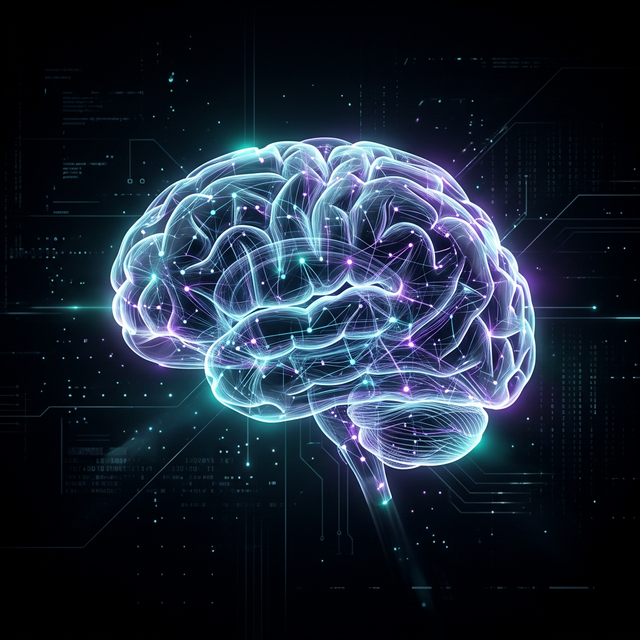
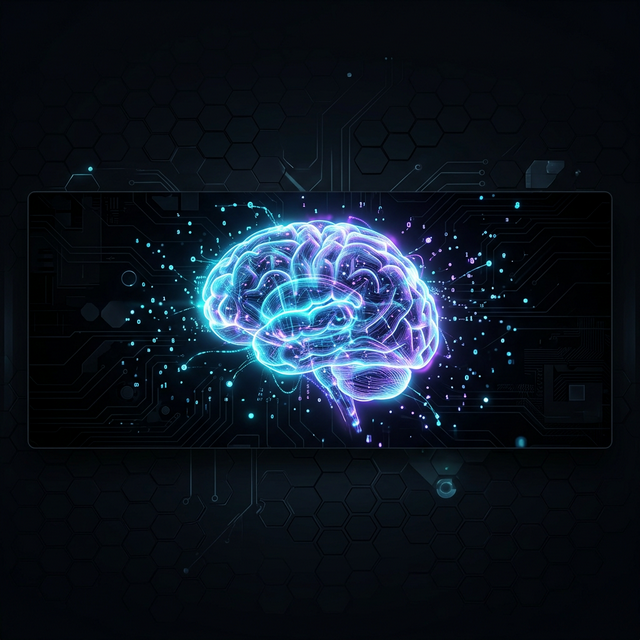
🎨 Dark vibrant theme + LinkedIn data + fix all broken images

diff --git a/README.md b/README.md
@@ -7,108 +7,103 @@
 <!--   ██║  ██║███████╗██║ ╚═╝ ██║██║  ██║██║ ╚████║╚██████╔╝                         -->
 <!--   ╚═╝  ╚═╝╚══════╝╚═╝     ╚═╝╚═╝  ╚═╝╚═╝  ╚═══╝ ╚═════╝                          -->
 <!--                                                                                   -->
-<!--   Welcome to my Digital Universe 🌌                                               -->
 <!-- ═══════════════════════════════════════════════════════════════════════════════════ -->
 
 <div align="center">
 
-<!-- CUSTOM HEADER BANNER -->
-<img src="./assets/header_banner.png" width="100%" alt="Header Banner"/>
+<!-- DARK VIBRANT HEADER -->
+<img src="./assets/header_banner.png" width="100%" alt="Hemang Dubey — AI/ML Engineer & Full Stack Developer"/>
 
 <br/>
 
-<!-- ANIMATED TYPING -->
-<a href="https://git.io/typing-svg"><img src="https://readme-typing-svg.demolab.com?font=JetBrains+Mono&weight=600&size=24&duration=3000&pause=1000&color=6C63FF&center=true&vCenter=true&multiline=true&repeat=true&random=false&width=700&height=80&lines=%E2%9A%A1+AI+Engineer+%7C+Full+Stack+Developer;%F0%9F%94%AC+Edge+AI+%7C+Generative+AI+%7C+Computer+Vision" alt="Typing SVG" /></a>
+<!-- ANIMATED TYPING — DARK NEON THEME -->
+<a href="https://git.io/typing-svg"><img src="https://readme-typing-svg.demolab.com?font=Fira+Code&weight=700&size=28&duration=3000&pause=800&color=00D4FF&center=true&vCenter=true&multiline=true&repeat=true&random=false&width=850&height=90&lines=%E2%9A%A1+AI%2FML+Engineer+%7C+Full+Stack+Developer;%F0%9F%94%AC+Edge+AI+%7C+Generative+AI+%7C+Computer+Vision+%7C+MLOps" alt="Typing SVG" /></a>
 
 <br/>
 
-<!-- SOCIAL BADGES -->
-<p align="center">
-<a href="https://www.linkedin.com/in/hemang-dubey-7b801628b/"><img src="https://img.shields.io/badge/LinkedIn-0A66C2?style=for-the-badge&logo=linkedin&logoColor=white" alt="LinkedIn"/></a>&nbsp;
-<a href="mailto:dubeyhemang777@gmail.com"><img src="https://img.shields.io/badge/Gmail-EA4335?style=for-the-badge&logo=gmail&logoColor=white" alt="Gmail"/></a>&nbsp;
-<a href="https://github.com/HemangDubey"><img src="https://img.shields.io/badge/GitHub-181717?style=for-the-badge&logo=github&logoColor=white" alt="GitHub"/></a>
+<!-- SOCIAL BADGES — NEON GLOW STYLE -->
+<p>
+<a href="https://www.linkedin.com/in/hemang-dubey-7b801628b/"><img src="https://img.shields.io/badge/-LinkedIn-0A66C2?style=for-the-badge&logo=linkedin&logoColor=white" alt="LinkedIn"/></a>
+<a href="mailto:dubeyhemang777@gmail.com"><img src="https://img.shields.io/badge/-Gmail-EA4335?style=for-the-badge&logo=gmail&logoColor=white" alt="Gmail"/></a>
+<a href="https://github.com/HemangDubey"><img src="https://img.shields.io/badge/-GitHub-181717?style=for-the-badge&logo=github&logoColor=white" alt="GitHub"/></a>
 </p>
 
-<!-- ANIMATED DIVIDER -->
 <img src="https://user-images.githubusercontent.com/73097560/115834477-dbab4500-a447-11eb-908a-139a6edaec5c.gif" width="100%">
 
 </div>
 
-<!-- ═══════════════════════════════════════════════════════════════ -->
-<!--                    ABOUT ME SECTION                           -->
-<!-- ═══════════════════════════════════════════════════════════════ -->
+---
 
 ## <img src="https://media.giphy.com/media/iY8CRBdQXODJSCERIr/giphy.gif" width="30"> &nbsp;About Me
 
-<img align="right" alt="Coding" width="320" src="https://raw.githubusercontent.com/abhisheknaiidu/abhisheknaiidu/master/code.gif"/>
+<img align="right" alt="Coding" width="300" src="https://raw.githubusercontent.com/abhisheknaiidu/abhisheknaiidu/master/code.gif"/>
 
 ```yaml
 name: Hemang Dubey
+role: AI/ML Engineer | Full Stack Developer
 located_in: India 🇮🇳
 education:
   university: VIT Vellore
   degree: Integrated M.Tech (CSE)
-  year: 3rd Year (2023 - 2028)
+  year: 3rd Year (2023 – 2028)
+  standing: Top 10% | Merit Scholar
 
 current_focus:
   - Edge AI & Computer Vision
   - Generative AI (Stable Diffusion, CLIP)
   - Full Stack Development (MERN)
   - MLOps & System Design
+  - Data Analytics & BI Dashboards
 
 patents_filed: 2
-research_areas:
-  - Contactless Healthcare Interfaces
-  - Genomic Data Compression
-  - AI-Powered Forensics
+hackathons:
+  - Appian AI Hackathon @ IIT Madras (Finalist)
+  - EnCode 2026 @ IIT Guwahati (Top 10)
 ```
 
 <br clear="both"/>
 
-<!-- ANIMATED DIVIDER -->
-<img src="https://user-images.githubusercontent.com/73097560/115834477-dbab4500-a447-11eb-908a-139a6edaec5c.gif" width="100%">
-
-<!-- ═══════════════════════════════════════════════════════════════ -->
-<!--                    TECH STACK SECTION                         -->
-<!-- ═══════════════════════════════════════════════════════════════ -->
+---
 
 ## <img src="https://media2.giphy.com/media/QssGEmpkyEOhBCb7e1/giphy.gif?cid=ecf05e47a0n3gi1bfqntqmob8g9aid1oyj2wr3ds3mg700bl&rid=giphy.gif" width="28"> &nbsp;Tech Arsenal
 
 <div align="center">
 
-### 🧠 AI / ML / Deep Learning
+#### 🧠 AI / ML / Deep Learning
 <p>
 <img src="https://img.shields.io/badge/PyTorch-EE4C2C?style=for-the-badge&logo=pytorch&logoColor=white"/>
 <img src="https://img.shields.io/badge/TensorFlow-FF6F00?style=for-the-badge&logo=tensorflow&logoColor=white"/>
+<img src="https://img.shields.io/badge/Keras-D00000?style=for-the-badge&logo=keras&logoColor=white"/>
 <img src="https://img.shields.io/badge/OpenCV-27338e?style=for-the-badge&logo=OpenCV&logoColor=white"/>
 <img src="https://img.shields.io/badge/MediaPipe-0097A7?style=for-the-badge&logo=google&logoColor=white"/>
-<img src="https://img.shields.io/badge/🤗%20HuggingFace-FFD21E?style=for-the-badge&logoColor=black"/>
+<img src="https://img.shields.io/badge/🤗%20HuggingFace-FFD21E?style=for-the-badge"/>
 <img src="https://img.shields.io/badge/Scikit--Learn-F7931E?style=for-the-badge&logo=scikit-learn&logoColor=white"/>
-<img src="https://img.shields.io/badge/Keras-D00000?style=for-the-badge&logo=keras&logoColor=white"/>
+<img src="https://img.shields.io/badge/NLP-8B5CF6?style=for-the-badge&logo=spacy&logoColor=white"/>
 </p>
 
-### 💻 Languages & Frameworks
+#### 💻 Languages
 <p>
 <img src="https://img.shields.io/badge/Python-3776AB?style=for-the-badge&logo=python&logoColor=white"/>
 <img src="https://img.shields.io/badge/JavaScript-F7DF1E?style=for-the-badge&logo=javascript&logoColor=black"/>
 <img src="https://img.shields.io/badge/Java-ED8B00?style=for-the-badge&logo=openjdk&logoColor=white"/>
+<img src="https://img.shields.io/badge/C++-00599C?style=for-the-badge&logo=cplusplus&logoColor=white"/>
 <img src="https://img.shields.io/badge/SQL-4479A1?style=for-the-badge&logo=postgresql&logoColor=white"/>
 <img src="https://img.shields.io/badge/HTML5-E34F26?style=for-the-badge&logo=html5&logoColor=white"/>
 <img src="https://img.shields.io/badge/CSS3-1572B6?style=for-the-badge&logo=css3&logoColor=white"/>
-<img src="https://img.shields.io/badge/Solidity-363636?style=for-the-badge&logo=solidity&logoColor=white"/>
 </p>
 
-### 🌐 Full Stack Development
+#### 🌐 Full Stack Development
 <p>
 <img src="https://img.shields.io/badge/React-20232A?style=for-the-badge&logo=react&logoColor=61DAFB"/>
 <img src="https://img.shields.io/badge/Node.js-339933?style=for-the-badge&logo=node.js&logoColor=white"/>
 <img src="https://img.shields.io/badge/Express.js-000000?style=for-the-badge&logo=express&logoColor=white"/>
 <img src="https://img.shields.io/badge/MongoDB-47A248?style=for-the-badge&logo=mongodb&logoColor=white"/>
+<img src="https://img.shields.io/badge/MySQL-4479A1?style=for-the-badge&logo=mysql&logoColor=white"/>
 <img src="https://img.shields.io/badge/REST%20APIs-FF6C37?style=for-the-badge&logo=postman&logoColor=white"/>
 <img src="https://img.shields.io/badge/Streamlit-FF4B4B?style=for-the-badge&logo=streamlit&logoColor=white"/>
 </p>
 
-### ⚙ DevOps & Tools
+#### ⚙ DevOps & Tools
 <p>
 <img src="https://img.shields.io/badge/Docker-2496ED?style=for-the-badge&logo=docker&logoColor=white"/>
 <img src="https://img.shields.io/badge/Git-F05032?style=for-the-badge&logo=git&logoColor=white"/>
@@ -119,127 +114,154 @@ research_areas:
 <img src="https://img.shields.io/badge/Linux-FCC624?style=for-the-badge&logo=linux&logoColor=black"/>
 </p>
 
-### 📊 Data & Analytics
+#### 📊 Data & Analytics
 <p>
 <img src="https://img.shields.io/badge/Pandas-150458?style=for-the-badge&logo=pandas&logoColor=white"/>
 <img src="https://img.shields.io/badge/NumPy-013243?style=for-the-badge&logo=numpy&logoColor=white"/>
 <img src="https://img.shields.io/badge/Power%20BI-F2C811?style=for-the-badge&logo=power-bi&logoColor=black"/>
-<img src="https://img.shields.io/badge/Matplotlib-11557C?style=for-the-badge&logo=plotly&logoColor=white"/>
+<img src="https://img.shields.io/badge/Matplotlib-11557C?style=for-the-badge"/>
 <img src="https://img.shields.io/badge/SQL%20Server-CC2927?style=for-the-badge&logo=microsoft-sql-server&logoColor=white"/>
 </p>
 
 </div>
 
-<!-- ANIMATED DIVIDER -->
-<img src="https://user-images.githubusercontent.com/73097560/115834477-dbab4500-a447-11eb-908a-139a6edaec5c.gif" width="100%">
+---
 
-<!-- ═══════════════════════════════════════════════════════════════ -->
-<!--                    EXPERIENCE & ACHIEVEMENTS                  -->
-<!-- ═══════════════════════════════════════════════════════════════ -->
+## <img src="https://media.giphy.com/media/fYSnHlufseco8Fh93Z/giphy.gif" width="28"> &nbsp;Professional Experience
 
-## <img src="https://media.giphy.com/media/fYSnHlufseco8Fh93Z/giphy.gif" width="28"> &nbsp;Experience & Achievements
+<table>
+<tr>
+<td width="100%">
+
+### 📊 Data Analytics Intern — **ApexPlanet Software Pvt Ltd**
+`Jan 2026 – Mar 2026` &nbsp; ![Remote](https://img.shields.io/badge/Remote-00D4FF?style=flat-square)
+
+- Performed **data cleaning, EDA, SQL querying**, and built interactive **BI dashboards**
+- Developed **GravityWrangler CLI** — an automated tool for data immersion & wrangling
+- Built **GravityBI** — a platform for data storytelling, statistical validation & visual analytics
+- Hands-on with **Python, Pandas, Power BI, SQL Server** for real-world data pipelines
+
+</td>
+</tr>
+<tr>
+<td>
+
+### 🏆 Web Development Intern — **Elevate Labs**
+`Jun 2025 – Jul 2025` &nbsp; ![Best Performer](https://img.shields.io/badge/🥇_Best_Performer_Award-FFD700?style=flat-square&labelColor=333)
+
+- Developed optimized, responsive UIs with **React.js** and handled back-end logic with **MySQL**
+- Streamlined database queries and backend workflows for production-grade data handling
+- Awarded **"Best Performer"** for outstanding contribution and delivery quality
+
+</td>
+</tr>
+<tr>
+<td>
+
+### 🌐 Full Stack Web Development Intern — **W3Origin, New Delhi**
+`May 2025 – Jun 2025` &nbsp; ![On-site](https://img.shields.io/badge/On--site-8B5CF6?style=flat-square)
+
+- Built responsive web applications using **Node.js, React, and MySQL** (MERN-style stack)
+- Integrated **REST APIs** and enhanced UI/UX components for improved system performance
+- Worked in an on-site collaborative engineering environment
+
+</td>
+</tr>
+</table>
+
+---
+
+## 🏅 Achievements & Recognition
 
 <div align="center">
 
-| 🏅 Highlights | 📋 Details |
-|:---|:---|
-| 🏢 **Full Stack Intern** | W3Origin, New Delhi — MERN Stack & REST APIs |
-|  **Best Performer Award** | Web Development Internship @ Elevate Labs |
-| 🤖 **Appian AI Hackathon** | Participant @ IIT Madras |
-| 💼 **Job Simulations** | JP Morgan Chase & Goldman Sachs |
-| 📜 **2 Patents** | GestureSense (Pending) + HelixVault Titan (Filed) |
+| 🎯 | Achievement | Details |
+|:---:|:---|:---|
+| 🏆 | **Best Performer Award** | Web Development Internship — Elevate Labs |
+| 🚀 | **EnCode 2026 — Top 10 Finalist** | National Hackathon @ IIT Guwahati |
+| 🤖 | **Appian AI Hackathon — Finalist** | AI/ML Innovation Challenge @ IIT Madras |
+| 📜 | **2 Patents Filed** | GestureSense (Pending) + HelixVault Titan (Filed) |
+| 💼 | **Software Engineering Simulations** | JP Morgan Chase & Goldman Sachs |
+| 🎓 | **Merit Scholar — Top 10%** | Integrated M.Tech CSE @ VIT Vellore |
+| 📚 | **Academic Excellence** | 12th: 92.4% · 10th: 94.2% — St. Mary's Convent School |
 
 </div>
 
-<!-- ANIMATED DIVIDER -->
-<img src="https://user-images.githubusercontent.com/73097560/115834477-dbab4500-a447-11eb-908a-139a6edaec5c.gif" width="100%">
-
-<!-- ═══════════════════════════════════════════════════════════════ -->
-<!--                 SKILL PROFICIENCY                             -->
-<!-- ═══════════════════════════════════════════════════════════════ -->
+---
 
 ## <img src="https://media.giphy.com/media/W5eoZHPpUx9sapR0eu/giphy.gif" width="28"> &nbsp;Skill Proficiency
 
 <div align="center">
 
 ```text
-🧠 AI/ML & Deep Learning    ███████████████████░░   90%
-🌐 Full Stack Development   ████████████████████░   95%
-🐍 Python                   ████████████████████░   95%
-⚡ JavaScript (ES6+)        █████████████████░░░░   85%
-☕ Java                     ████████████████░░░░░   80%
-🗃 SQL & Databases          █████████████████░░░░   85%
-🐳 DevOps & MLOps           ██████████████░░░░░░░   70%
-📊 Data Analytics            █████████████████░░░░   85%
-👁 Computer Vision          ████████████████████░   90%
-🎨 System Design            █████████████████░░░░   85%
+🧠 Machine Learning & DL     ████████████████████░   92%
+🌐 Full Stack Development    ████████████████████░   95%
+🐍 Python                    █████████████████████   98%
+📊 Data Analytics & BI       █████████████████░░░░   88%
+⚡ JavaScript (ES6+)         █████████████████░░░░   85%
+☕ Java / C++                ████████████████░░░░░   80%
+🗃 SQL & Databases           █████████████████░░░░   88%
+🐳 DevOps & MLOps            ██████████████░░░░░░░   72%
+👁 Computer Vision           ████████████████████░   92%
+🎨 System Design             █████████████████░░░░   85%
 ```
 
 </div>
 
-<!-- ANIMATED DIVIDER -->
-<img src="https://user-images.githubusercontent.com/73097560/115834477-dbab4500-a447-11eb-908a-139a6edaec5c.gif" width="100%">
+---
 
-<!-- ═══════════════════════════════════════════════════════════════ -->
-<!--                    CURRENTLY SECTION                          -->
-<!-- ═══════════════════════════════════════════════════════════════ -->
-
-## <img src="https://media.giphy.com/media/VgCDAzcKvsR6OM0uWg/giphy.gif" width="28"> &nbsp;What I'm Up To
+## <img src="https://media.giphy.com/media/VgCDAzcKvsR6OM0uWg/giphy.gif" width="28"> &nbsp;What I'm Building
 
 <div align="center">
 
 | 🔭 Currently Working On | 🌱 Currently Learning | 👯 Looking to Collaborate On |
 |:---|:---|:---|
-| NeuroSketch — AI Forensics Suite | Advanced GANs & Diffusion Models | Open Source AI/ML Projects |
-| Edge AI Healthcare Systems | Kubernetes & Cloud Native | Research in Computer Vision |
-| Genomic Compression Algorithms | Blockchain & Web3 (Solidity) | Innovative Hackathon Teams |
+| Generative AI Forensics Suite | Advanced GANs & Diffusion Models | Open Source AI/ML Projects |
+| Edge AI Healthcare Systems | Kubernetes & Cloud Deployment | Research in Computer Vision |
+| GravityBI Analytics Platform | Blockchain & Web3 (Solidity) | Innovative Hackathon Teams |
 
 </div>
 
-<!-- ANIMATED DIVIDER -->
-<img src="https://user-images.githubusercontent.com/73097560/115834477-dbab4500-a447-11eb-908a-139a6edaec5c.gif" width="100%">
+---
 
-<!-- ═══════════════════════════════════════════════════════════════ -->
-<!--                    GITHUB STATS                               -->
-<!-- ═══════════════════════════════════════════════════════════════ -->
-
-## <img src="https://media.giphy.com/media/cj87CxfRtrUifF3Riz/giphy.gif" width="28"> &nbsp;GitHub Analytics
+## 📈 GitHub Analytics
 
 <div align="center">
+
 <a href="https://github.com/HemangDubey">
-<img height="180em" src="https://github-readme-stats.vercel.app/api?username=HemangDubey&show_icons=true&theme=tokyonight&hide_border=true&bg_color=0d1117&title_color=6C63FF&icon_color=E94560&text_color=c9d1d9&count_private=true&include_all_commits=true" alt="Hemang's GitHub Stats"/>
-&nbsp;&nbsp;
-<img height="180em" src="https://github-readme-stats.vercel.app/api/top-langs/?username=HemangDubey&layout=compact&theme=tokyonight&hide_border=true&bg_color=0d1117&title_color=6C63FF&text_color=c9d1d9&langs_count=8" alt="Top Languages"/>
+<img height="180em" src="https://github-readme-stats-hemangdubeys-projects.vercel.app/api?username=HemangDubey&show_icons=true&hide_border=true&bg_color=0d1117&title_color=00D4FF&icon_color=8B5CF6&text_color=c9d1d9&ring_color=8B5CF6&count_private=true&include_all_commits=true" alt="Hemang's GitHub Stats"/>
+&nbsp;&nbsp;&nbsp;
+<img height="180em" src="https://github-readme-stats-hemangdubeys-projects.vercel.app/api/top-langs/?username=HemangDubey&layout=compact&hide_border=true&bg_color=0d1117&title_color=00D4FF&text_color=c9d1d9&langs_count=8" alt="Top Languages"/>
 </a>
 
 <br/><br/>
 
-<!-- STREAK STATS -->
 <a href="https://github.com/HemangDubey">
-<img src="https://github-readme-streak-stats.herokuapp.com/?user=HemangDubey&theme=tokyonight&hide_border=true&background=0d1117&stroke=6C63FF&ring=E94560&fire=E94560&currStreakLabel=6C63FF&sideLabels=c9d1d9&currStreakNum=c9d1d9&sideNums=c9d1d9&dates=8b949e" alt="GitHub Streak"/>
+<img src="https://streak-stats.demolab.com/?user=HemangDubey&hide_border=true&background=0d1117&stroke=1a1b27&ring=00D4FF&fire=8B5CF6&currStreakLabel=00D4FF&sideLabels=c9d1d9&currStreakNum=c9d1d9&sideNums=c9d1d9&dates=8b949e" alt="GitHub Streak"/>
+</a>
+
+<br/><br/>
+
+<a href="https://github.com/HemangDubey">
+<img src="https://github-readme-activity-graph.vercel.app/graph?username=HemangDubey&bg_color=0d1117&color=00D4FF&line=8B5CF6&point=FFFFFF&area_color=00D4FF&area=true&hide_border=true&custom_title=%E2%9A%A1%20Contribution%20Timeline" width="95%" alt="Contribution Graph"/>
 </a>
 
 </div>
 
-<!-- ANIMATED DIVIDER -->
-<img src="https://user-images.githubusercontent.com/73097560/115834477-dbab4500-a447-11eb-908a-139a6edaec5c.gif" width="100%">
-
-<!-- ═══════════════════════════════════════════════════════════════ -->
-<!--                    CONNECT WITH ME                            -->
-<!-- ═══════════════════════════════════════════════════════════════ -->
+---
 
 ## <img src="https://media.giphy.com/media/LnQjpWaON8nhr21vNW/giphy.gif" width="28"> &nbsp;Let's Connect
 
 <div align="center">
 
 <a href="https://www.linkedin.com/in/hemang-dubey-7b801628b/" target="_blank">
-<img src="https://img.shields.io/badge/Let's_Connect!-0A66C2?style=for-the-badge&logo=linkedin&logoColor=white" alt="LinkedIn" height="35"/>
+<img src="https://img.shields.io/badge/-Let's_Connect-0A66C2?style=for-the-badge&logo=linkedin&logoColor=white" height="35"/>
 </a>&nbsp;
 <a href="mailto:dubeyhemang777@gmail.com" target="_blank">
-<img src="https://img.shields.io/badge/Send_a_Mail-EA4335?style=for-the-badge&logo=gmail&logoColor=white" alt="Email" height="35"/>
+<img src="https://img.shields.io/badge/-Send_a_Mail-EA4335?style=for-the-badge&logo=gmail&logoColor=white" height="35"/>
 </a>&nbsp;
 <a href="https://github.com/HemangDubey" target="_blank">
-<img src="https://img.shields.io/badge/Follow_Me-181717?style=for-the-badge&logo=github&logoColor=white" alt="GitHub" height="35"/>
+<img src="https://img.shields.io/badge/-Follow_Me-181717?style=for-the-badge&logo=github&logoColor=white" height="35"/>
 </a>
 
 <br/><br/>
@@ -248,16 +270,11 @@ research_areas:
 
 <br/>
 
-<!-- RANDOM DEV QUOTE -->
-<img src="https://quotes-github-readme.vercel.app/api?type=horizontal&theme=tokyonight" alt="Random Dev Quote" width="70%"/>
+<img src="https://quotes-github-readme.vercel.app/api?type=horizontal&theme=dark" alt="Dev Quote" width="70%"/>
 
 </div>
 
 <br/>
 
-<!-- FOOTER WAVE -->
-<img width="100%" src="https://capsule-render.vercel.app/api?type=waving&color=0:0d1117,10:161b22,30:1a1b27,50:6C63FF,70:E94560,100:0d1117&height=120&section=footer"/>
-
-<!-- ═══════════════════════════════════════════════════════════════ -->
-<!--  Made with 💜 by Hemang Dubey                                 -->
-<!-- ═══════════════════════════════════════════════════════════════ -->
+<!-- FOOTER -->
+<img width="100%" src="https://capsule-render.vercel.app/api?type=waving&color=0:0d1117,25:1a1b27,50:00D4FF,75:8B5CF6,100:0d1117&height=120&section=footer"/>
